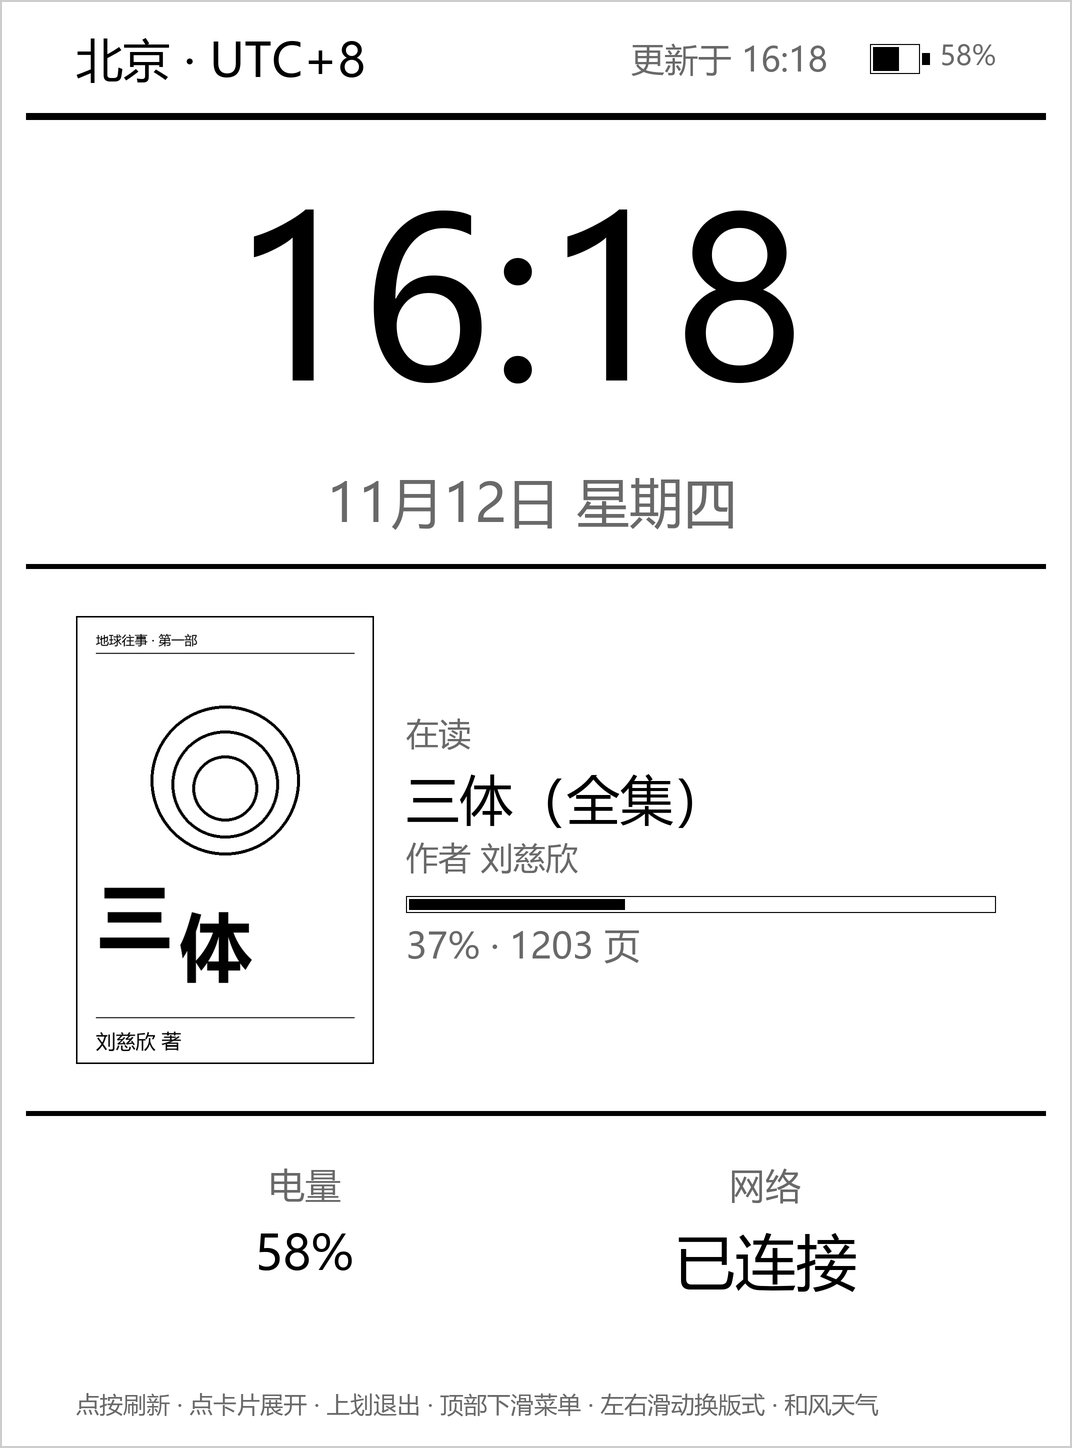
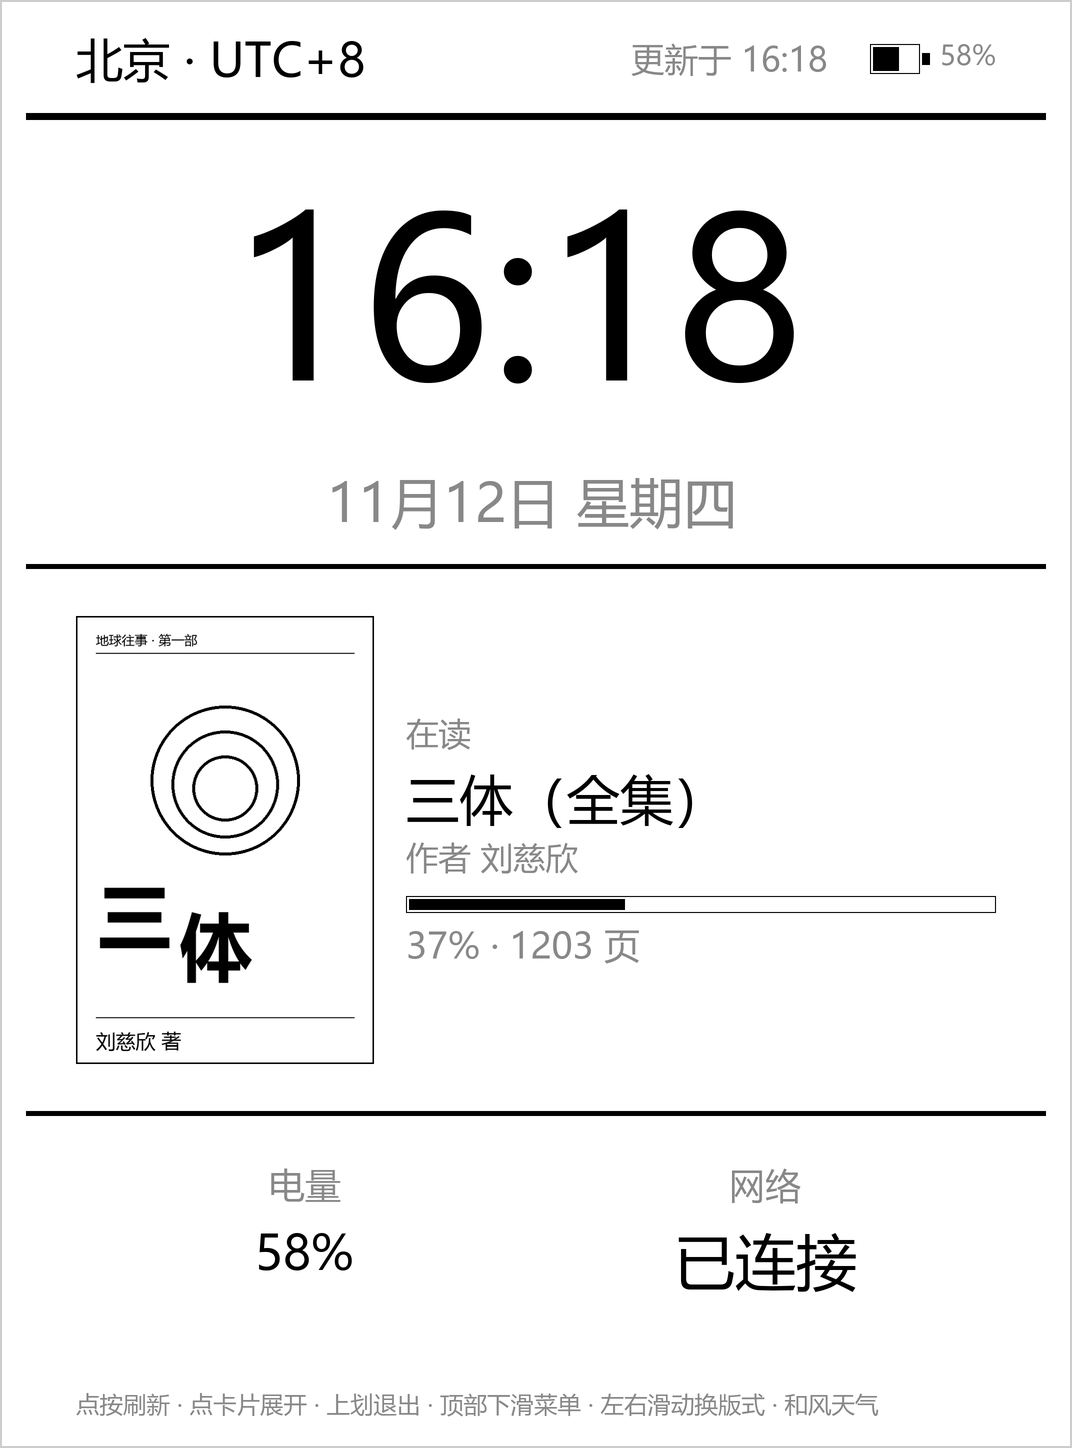
fix(tools): 预览器灰阶取色统一为 255-color
桩件把值域写反了（COLOR_WHITE=0 / COLOR_BLACK=255），而真机 Color8 正好
相反（COLOR_BLACK=Color8(0) / COLOR_WHITE=Color8(0xFF)）；桩件的
COLOR_DARK_GRAY 又写成 0x55，反推屏幕 170，与真机 0x88=136 对不上。

三处错位叠在一起，导致：

- 预览图里所有灰字都被画成纯黑（render_board 用 color==85 判断，
  而 main.lua 传进来的灰是 COLOR_DARK_GRAY，两边数字根本不同）；
- 反白文字（今天格的白字）被画成黑色，整块黑看不到日期；
- 灰阶一多就全塌成黑白两色，墨阶方案无法在预览图里评审。

改法：文字与矩形、描边统一走 255-color，桩件的 COLOR_DARK_GRAY 校正为
0x77（反向即 136 = 真机 0x88），render_preview 的 FILL 查表换成同一换算。

重出 21 张预览图，逐张比对：灰字 105 -> 136（浅灰占比 0.53% -> 0.64%），
没有出现内容整块消失的格子（疑似变空的格子最深像素 107~116，
是灰字 Lanczos 边缘过冲，不是消失）。

diff --git a/preview/board.html b/preview/board.html
@@ -14,5 +14,5 @@
 <h1>桌面看板 · KPW3 版面预览</h1>
 <p class="note">由测试桩输出的最终帧像素坐标还原，非示意图。文字宽度按控件实测尺寸定位，
 字形本身由浏览器渲染，可能与 Kindle 上的 cfont 略有差异。</p>
[2 lines of base64/hex data omitted]
 </body></html>

diff --git a/tools/render_preview.py b/tools/render_preview.py
@@ -20,7 +20,14 @@ SIZES = [
 ]
 
 # 桩件里的颜色常量（0=白 255=黑 85=深灰）
-FILL = {0: "#ffffff", 255: "#111111", 85: "#8a8a8a"}
+def ink(color):
+    """桩件值域与真机相反（0 = 纸白 / 255 = 纯黑），255 - color 即屏幕灰度。
+
+    旧代码用 {0: 白, 255: 黑, 85: 灰} 查表，只认三种颜色：
+    墨阶一多、或者桩件的灰值一改，没命中的就全落到默认色上。
+    """
+    v = 255 - (color or 0)
+    return "#%02x%02x%02x" % (v, v, v)
 
 
 def grab(w, h, rotation=0):
@@ -80,13 +87,13 @@ def svg_for(items, w, h, disp_w):
     body = [f'<rect x="0" y="0" width="{w}" height="{h}" fill="#ffffff"/>']
     for tag, x, y, iw, ih, color, text in items:
         if tag == "R":
-            body.append(f'<rect x="{x}" y="{y}" width="{iw}" height="{ih}" fill="{FILL.get(color, "#333")}"/>')
+            body.append(f'<rect x="{x}" y="{y}" width="{iw}" height="{ih}" fill="{ink(color)}"/>')
         elif tag == "B":
             body.append(f'<rect x="{x}" y="{y}" width="{iw}" height="{ih}" fill="none" '
-                        f'stroke="#111" stroke-width="3"/>')
+                        f'stroke="{ink(color)}" stroke-width="3"/>')
         elif tag == "T":
             size = max(6, round(ih * 0.72))
-            fill = "#8a8a8a" if color == 85 else "#111111"
+            fill = ink(color)
             body.append(f'<text x="{x}" y="{y + ih * 0.78:.0f}" font-size="{size}" fill="{fill}" '
                         f'font-family="PingFang SC, Noto Sans CJK SC, Microsoft YaHei, sans-serif">'
                         f'{esc(text)}</text>')

diff --git a/tools/render_board.py b/tools/render_board.py
@@ -40,7 +40,9 @@ PLUGIN = "dashboard.koplugin"
 # 真机 PW3：原生竖屏 1072×1448，横屏 = 把这块 framebuffer 转 90°
 NATIVE_W, NATIVE_H = 1072, 1448
 SCALE = 2                    # 超采样倍数
-BLACK, GRAY = 0, 105         # 桩件里的 COLOR_BLACK=255 / COLOR_DARK_GRAY=85
+
+# 桩件值域与真机相反（0 = 纸白 / 255 = 纯黑），所以屏幕灰度恒为 255 - color。
+# 矩形、描边、文字三条路径都走这一个换算，任何"按色值分支"的写法都会漏掉新墨阶。
 
 # 出图锚点：日期和时刻都钉死。真机时钟走的是系统时间，不钉的话每次出图都是一个新的
 # 时刻，README 的图会天天换脸，文章里「写这段的时候，屏幕上是十月初四」也会对不上。
@@ -267,7 +269,10 @@ def draw_items(items, dw, dh):
 def draw_text(d, img, x, y, w, h, text, color, S):
     if not text or h <= 0:
         return
-    fill = GRAY if color == 85 else BLACK
+    # 与 paintRect / paintBorder 同一套换算：任意墨阶都能出图。
+    # 旧写法是「color == 85 就画灰、否则画黑」，灰阶一多就全塌成黑色，
+    # 反白文字（color = COLOR_WHITE = 0）也会被画成黑——白字变黑就是这个 bug。
+    fill = 255 - (color or 0)
     limit = max(4, w) * S
 
     def fit(px, s):
